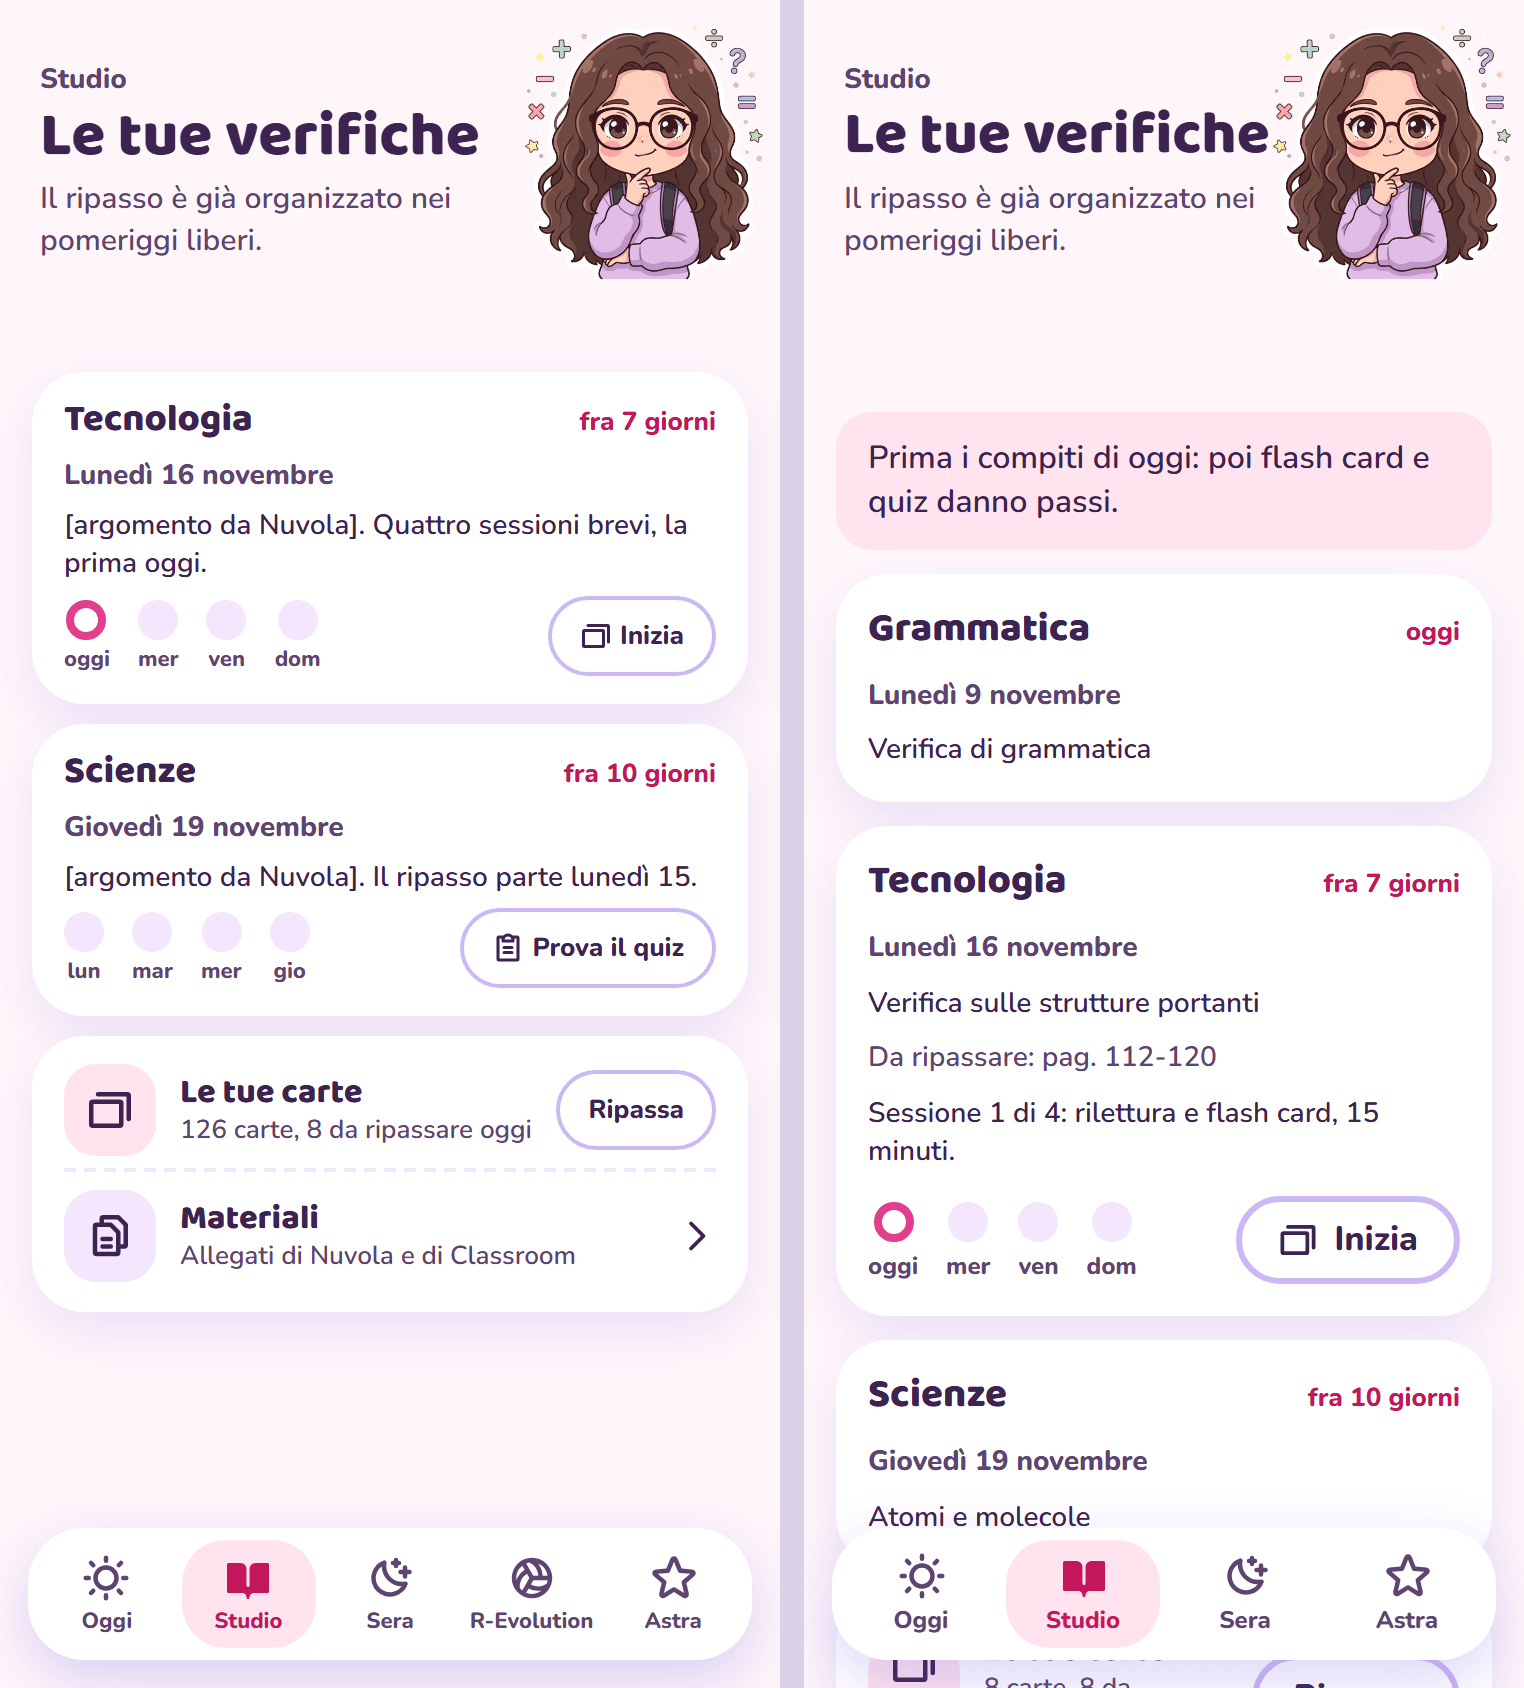
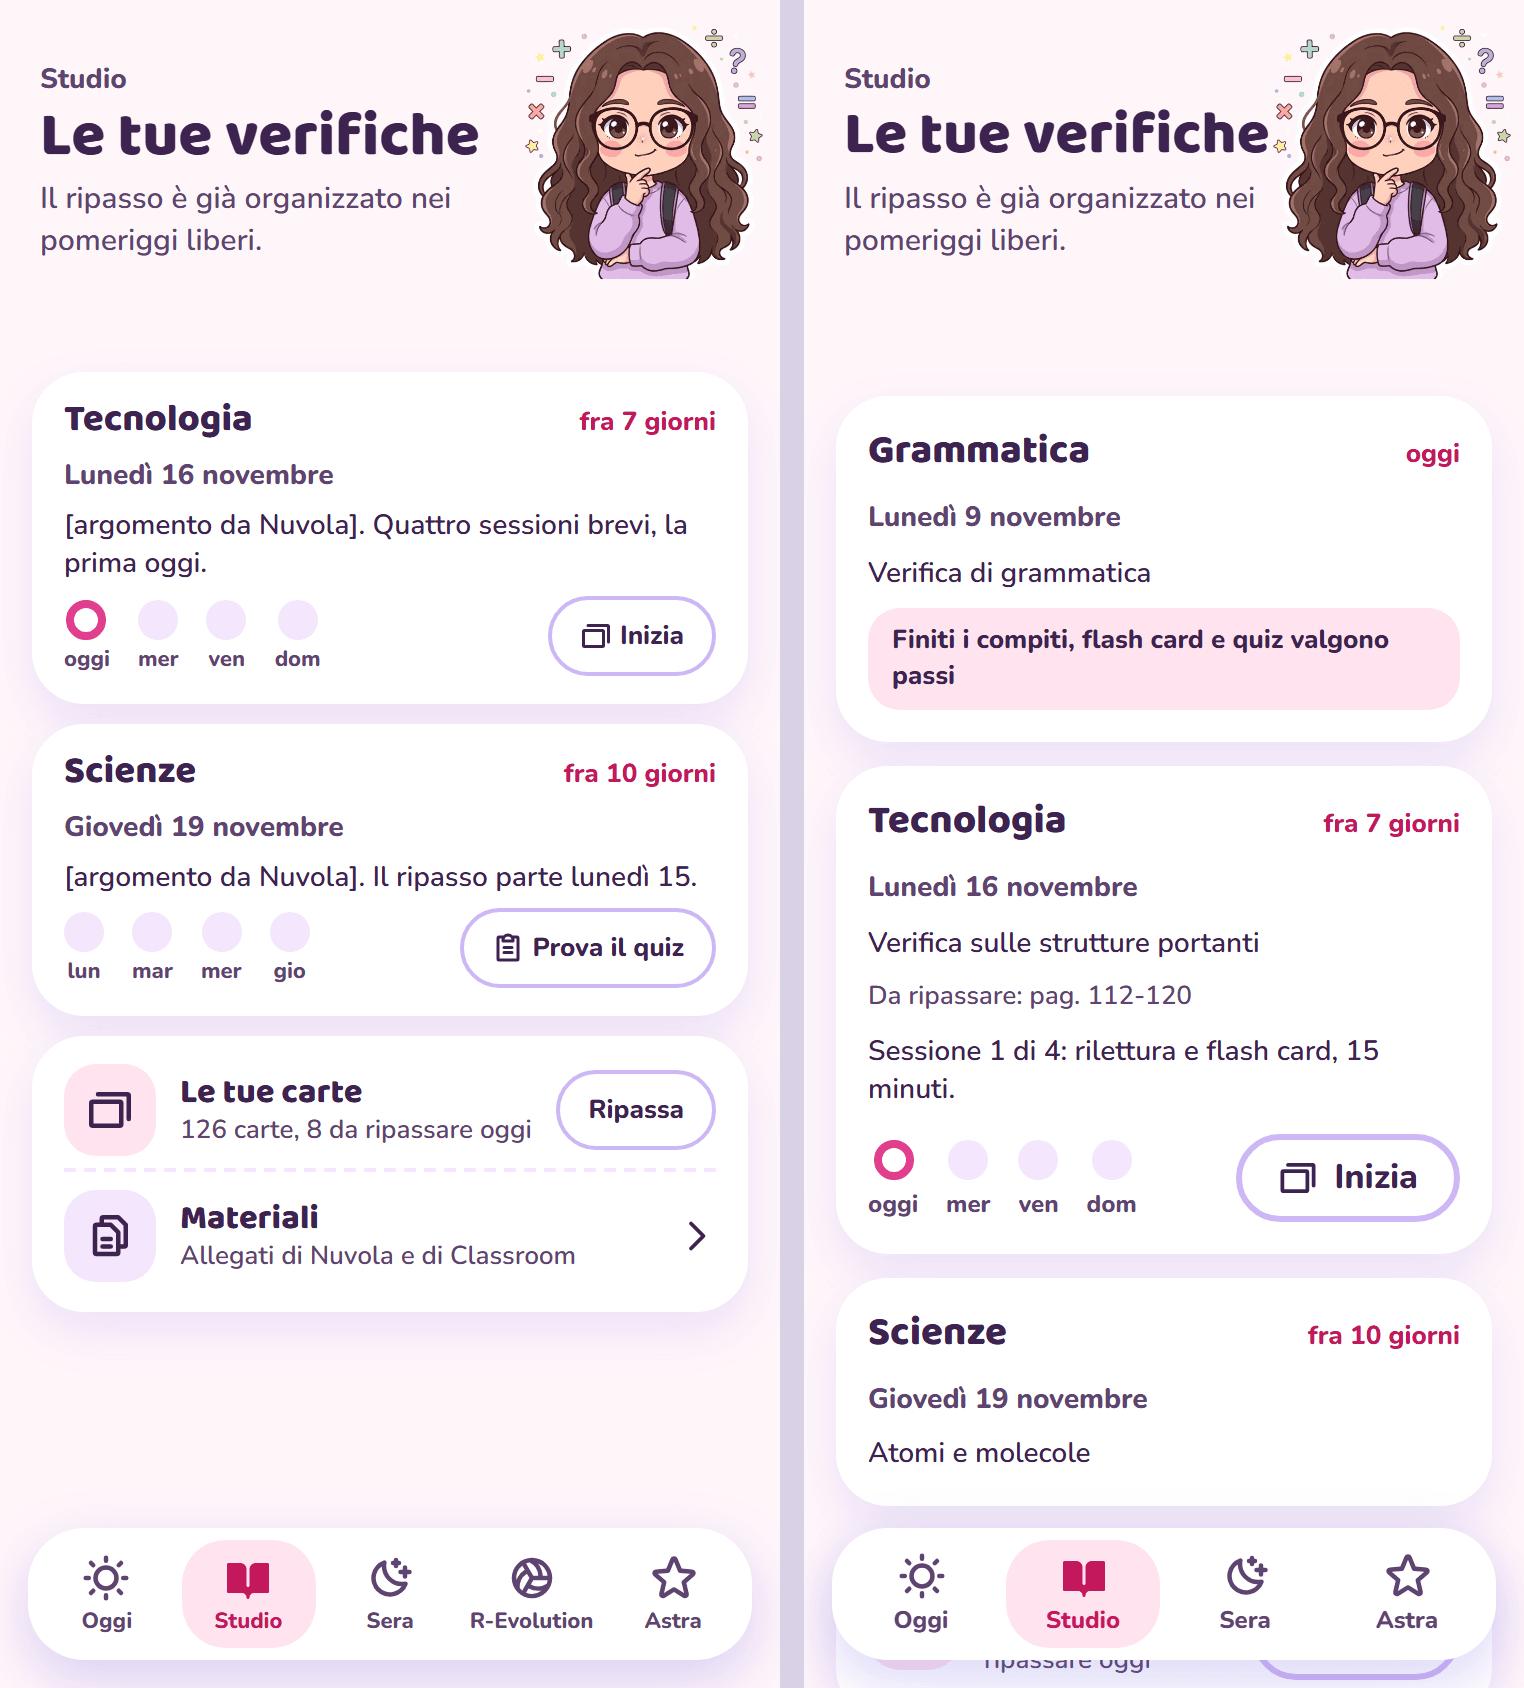
Revisione UI 8 (Studio): avviso dei compiti dentro la carta, gerarchia
- 'Finiti i compiti, flash card e quiz valgono passi' dentro la prima
  carta, solo finché i compiti di domani non sono spuntati (prima era
  un divieto in cima alla pagina)
- nelle carte delle verifiche pagine e prossima sessione più piccole
  dell'argomento

Changed region(s): [[0.5243, 0.2464, 0.9869, 0.9242], [0.5551, 0.9858, 0.7402, 1.0], [0.8018, 0.9858, 0.956, 1.0]]

diff --git a/src/Studio.tsx b/src/Studio.tsx
@@ -36,6 +36,8 @@ const COSA: Record<R.TipoSessione, string> = {
   quiz_errori: 'quiz breve sugli errori',
 };
 const CARTE_PER_GIRO = 12;
+// finché i compiti di domani non sono spuntati, dentro la prima carta (decisione del signore, 9/11)
+const AVVISO_COMPITI = 'Finiti i compiti, flash card e quiz valgono passi';
 const SELECT_CARTA = 'id, materia_id, tipo, fronte, retro, intervallo_giorni';
 
 export default function Studio() {
@@ -101,14 +103,14 @@ export default function Studio() {
   return (
     <section className="schermo schermo-studio">
       <Testata sfondo="panna" posa="lani-pensierosa" misura={132} sopra="Studio" titolo="Le tue verifiche" riga={<p>Il ripasso è già organizzato nei pomeriggi liberi.</p>} />
-      {compitiAperti > 0 && <p className="lady">Prima i compiti di oggi: poi flash card e quiz danno passi.</p>}
 
       {verifiche.length === 0 && (
         <div className="carta">
           <p>Nessuna verifica in arrivo su Nuvola.</p>
+          {compitiAperti > 0 && <p className="avviso-compiti">{AVVISO_COMPITI}</p>}
         </div>
       )}
-      {verifiche.map((v) => {
+      {verifiche.map((v, i) => {
         const sessioni = [...v.sessioni_ripasso].sort((a, b) => a.numero - b.numero);
         const daFare = sessioni.find((s) => !s.fatta_il && s.data_prevista <= oggi);
         const prossima = sessioni.find((s) => !s.fatta_il && s.data_prevista > oggi);
@@ -135,6 +137,7 @@ export default function Studio() {
             ) : prossima ? (
               <p className="nota">Prossima sessione: {GIORNI[R.giorno(prossima.data_prevista).getDay()]}.</p>
             ) : null}
+            {i === 0 && compitiAperti > 0 && <p className="avviso-compiti">{AVVISO_COMPITI}</p>}
             {(sessioni.length > 0 || daFare || v.quiz[0]) && (
               <div className="riga-pallini">
                 <ol className="pallini" aria-label="Sessioni di ripasso">

diff --git a/e2e/studio.e2e.ts b/e2e/studio.e2e.ts
@@ -104,6 +104,6 @@ test('carte del giorno e avviso dei compiti', async ({ page }) => {
   await finto(page, d);
   await page.goto('/');
   await page.getByRole('button', { name: 'Studio' }).click();
-  await expect(page.getByText('Prima i compiti di oggi: poi flash card e quiz danno passi.')).toBeVisible();
+  await expect(page.locator('.studio-verifica').first().getByText('Finiti i compiti, flash card e quiz valgono passi')).toBeVisible();
   await expect(page.getByText('2 da ripassare oggi', { exact: false })).toBeVisible();
 });

diff --git a/src/stile.css b/src/stile.css
@@ -509,3 +509,6 @@ dialog.velo:focus { outline: none; }
 .bollino { width: 44px; height: 44px; margin: 0; }
 .nota-riga { color: var(--testo-2); }
 .ordine label { padding: 0; }
+/* Studio: avviso dei compiti dentro la prima carta, gerarchia nelle carte delle verifiche */
+.avviso-compiti { padding: 8px 12px; border-radius: 16px; background: var(--rosa); font: 800 13px/1.35 Nunito, sans-serif !important; color: var(--testo); }
+.schermo .carta.studio-verifica p.nota { font-size: 13px; }
